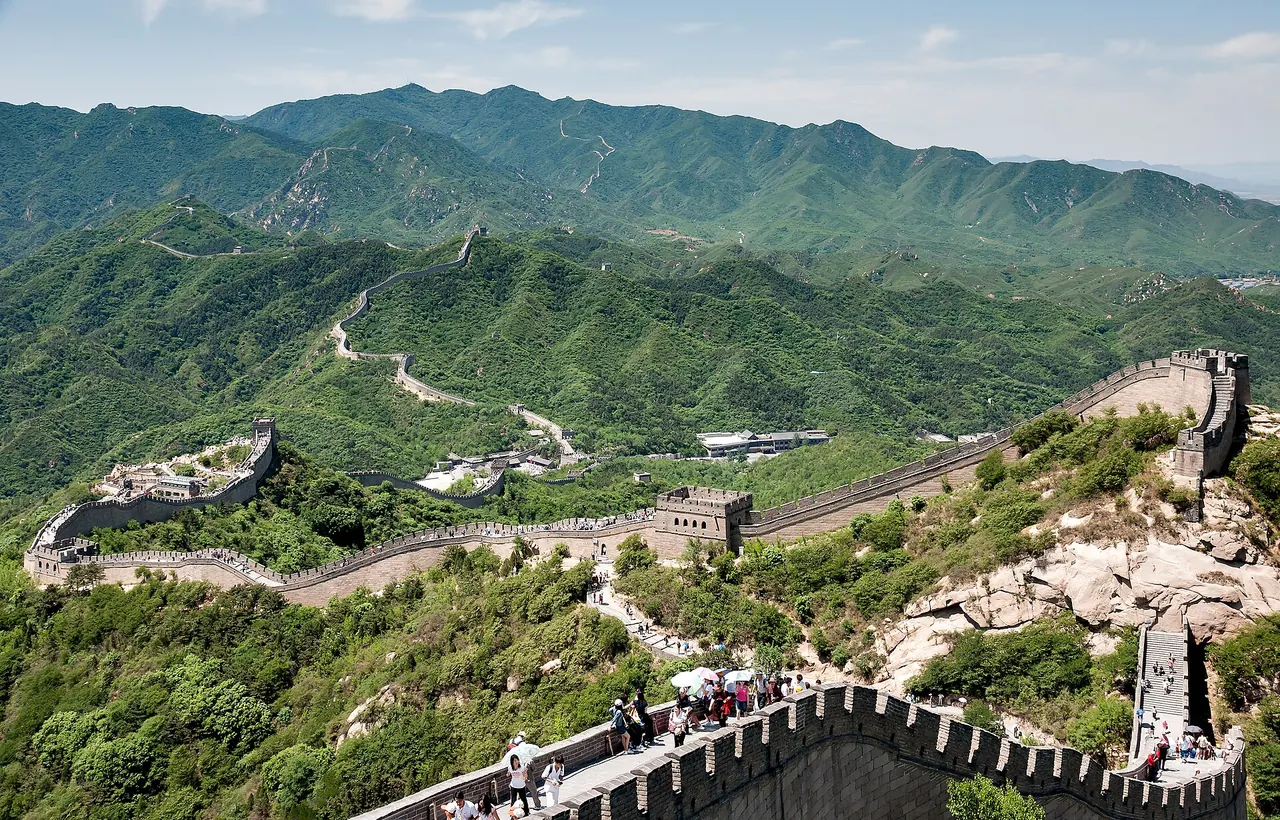
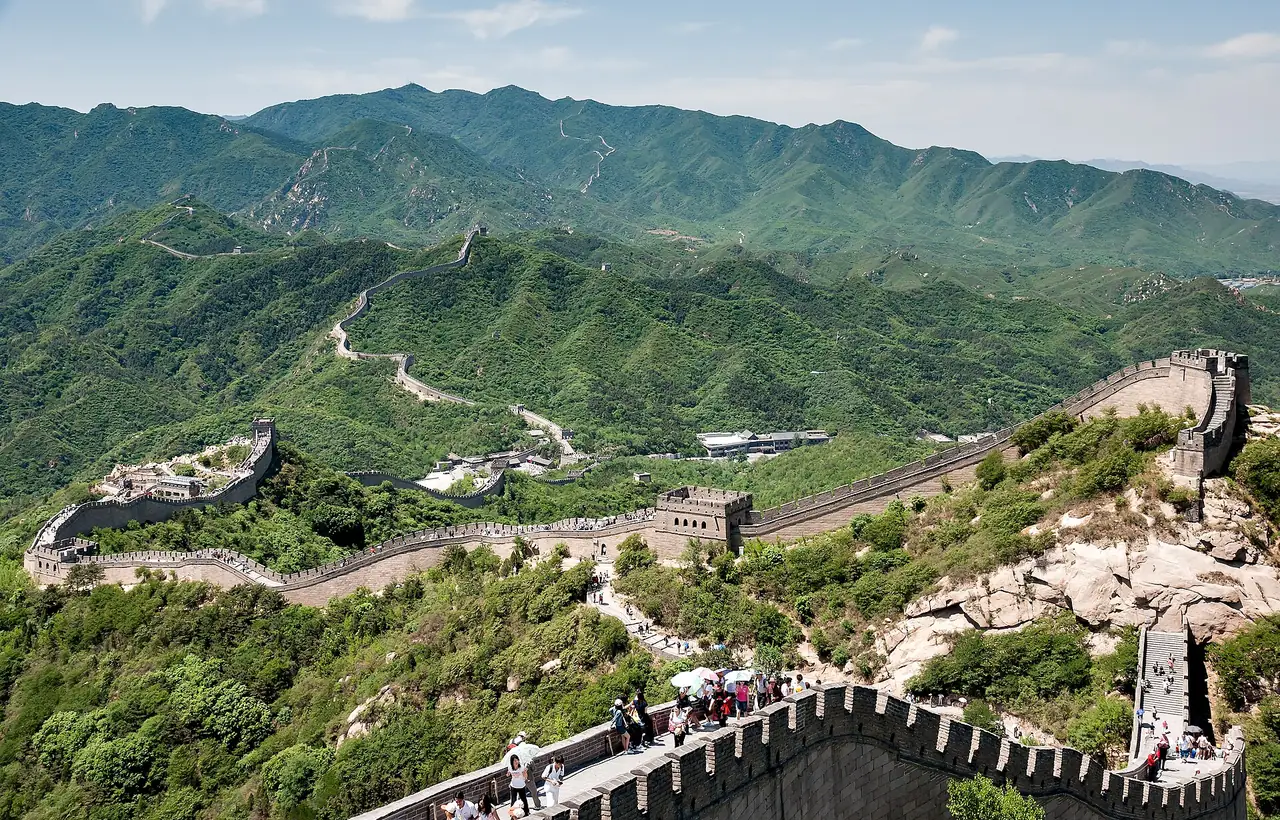
Fichas de países: la fotografía de cabecera de los 50 primeros, en la ficha (640 y 1280 px), con sus pruebas

diff --git a/e2e/ficha-pais.spec.ts b/e2e/ficha-pais.spec.ts
@@ -5,9 +5,9 @@ import { open, seed } from './helpers';
 /**
  * The sheet of a country, which the gallery of flags opens when the flag of a country is touched
  * (screens/FlagProfile.tsx). Every country with a flag has one: with what the game knows of it and what
- * Wikidata and Wikipedia say of it and of its flag, and with how Wikipedia begins to tell of both; and, where
- * somebody has written of it (for now, of Brazil alone), with its texts, its times and its photographs
- * instead. One sheet leads to another.
+ * Wikidata and Wikipedia say of it and of its flag, with how Wikipedia begins to tell of both and, where
+ * one has been chosen for it, with a photograph at its head; and, where somebody has written of it (for now,
+ * of Brazil alone), with its texts, its times and its photographs instead. One sheet leads to another.
  */
 
 interface Photo {
@@ -36,10 +36,13 @@ const FLAGS = JSON.parse(fs.readFileSync('public/data/flags.json', 'utf8')) as {
 };
 /** What a sheet nobody has written of tells in words: how Wikipedia begins to tell of the country and of its flag, by language. */
 type Lead = { es?: string[]; en?: string[] };
-const sheetFile = (id: string) => JSON.parse(fs.readFileSync(`public/data/profiles/${id}.json`, 'utf8')) as { lead?: Lead; flag?: { lead?: Lead }; read?: { es?: string; en?: string }; readFlag?: { es?: string; en?: string } };
+const sheetFile = (id: string) =>
+  JSON.parse(fs.readFileSync(`public/data/profiles/${id}.json`, 'utf8')) as { lead?: Lead; flag?: { lead?: Lead }; read?: { es?: string; en?: string }; readFlag?: { es?: string; en?: string }; photos?: (Photo & { focus?: [number, number] })[] };
 /** The countries as the game has them: what each is called, and how its finest divisions are. */
 const COUNTRIES = (JSON.parse(fs.readFileSync('public/data/index.json', 'utf8')) as { countries: { id: string; n: { es: string; en?: string }; fl?: string; lv: { k: string; n: number }[] }[] }).countries;
 const commons = (title: string): string => `https://commons.wikimedia.org/wiki/File:${encodeURIComponent(title.replace(/ /g, '_'))}`;
+/** A country for whose sheet no photograph has been chosen yet: the first there is, as long as there is one. */
+const BARE = COUNTRIES.find((c) => c.fl && c.id !== 'AQ' && fs.existsSync(`public/data/profiles/${c.id}.json`) && !sheetFile(c.id).photos)!;
 
 /** Whether an image has arrived and is a picture. */
 const drawn = (img: Locator): Promise<boolean> => img.evaluate((el) => (el as HTMLImageElement).complete && (el as HTMLImageElement).naturalWidth > 0);
@@ -504,7 +507,7 @@ test.describe('the sheet of a country nobody has written of yet', () => {
   const fact = (sheet: Locator, name: string): Locator => sheet.locator('.fp-facts > div').filter({ has: sheet.page().locator('dt', { hasText: new RegExp(`^${name}$`) }) }).locator('dd');
   const title = (sheet: Locator): Locator => sheet.getByRole('heading', { level: 2 });
 
-  test('opens from its flag, with what Wikidata and Wikipedia say of it and a band of its flag where a photograph will be', async ({ page }) => {
+  test('opens from its flag, with what Wikidata and Wikipedia say of it and the photograph chosen for it, or a band of its flag where one will be', async ({ page }) => {
     await seed(page);
     await open(page, '/banderas/paises');
     await page.locator('.fg-tile').filter({ hasText: /^España$/ }).click();
@@ -519,16 +522,28 @@ test.describe('the sheet of a country nobody has written of yet', () => {
     await expect(sheet.locator('.fp-local')).toHaveCount(0);
     await expect(sheet.locator('.fp-flag')).toHaveAttribute('alt', 'Bandera de España');
 
-    // No photograph yet: where it will be, the colours of its flag, and the flag standing over their foot.
-    await expect(sheet.locator('.fp-hero')).toHaveCount(0);
-    const band = sheet.locator('.fp-band');
-    await expect(band).toHaveAttribute('aria-hidden', 'true');
-    await expect(band.locator('img')).toHaveAttribute('src', /flags\/es\.svg#svgView\(preserveAspectRatio\(none\)\)$/);
-    await expect.poll(() => drawn(band.locator('img'))).toBe(true);
-    const [strip, flag, box] = [(await band.boundingBox())!, (await sheet.locator('.fp-flag').boundingBox())!, (await sheet.locator('.dlg-box').boundingBox())!];
-    expect(Math.round(strip.width)).toBe(Math.round(box.width));
-    expect(flag.y).toBeLessThan(strip.y + strip.height);
-    expect(flag.y + flag.height).toBeGreaterThan(strip.y + strip.height);
+    // At its head, the photograph that was chosen for it: as wide as the sheet, twice as wide as tall, with what is seen in it and whose it is.
+    const head = sheetFile('ES').photos![0];
+    expect(sheetFile('ES').photos).toHaveLength(1);
+    await expect(sheet.locator('.fp-band')).toHaveCount(0);
+    const hero = sheet.locator('.fp-hero img');
+    expect(head.sizes).toEqual([640, 1280]);
+    await expect.poll(() => drawn(hero)).toBe(true);
+    // Asked for at once, from the site itself, at one of the widths it is kept at.
+    expect(await hero.getAttribute('loading')).toBeNull();
+    expect(await hero.evaluate((el) => (el as HTMLImageElement).currentSrc)).toMatch(new RegExp(`/photos/${head.file}-(640|1280)\\.webp$`));
+    const [picture, flag, box] = [(await hero.boundingBox())!, (await sheet.locator('.fp-flag').boundingBox())!, (await sheet.locator('.dlg-box').boundingBox())!];
+    expect(Math.round(picture.width)).toBe(Math.round(box.width));
+    expect(picture.width / picture.height).toBeGreaterThan(1.9);
+    expect(flag.y).toBeLessThan(picture.y + picture.height);
+    expect(flag.y + flag.height).toBeGreaterThan(picture.y + picture.height);
+    const caption = sheet.locator('.fp-hero figcaption');
+    await expect(caption).toContainText('La Alhambra de Granada');
+    await expect(caption).toContainText(head.es);
+    await expect(caption.locator('.fp-credit')).toContainText(`${head.by} · ${head.licence} · Wikimedia Commons`);
+    await expect(caption.locator('.fp-credit a').first()).toHaveAttribute('href', head.licenceUrl!);
+    await expect(caption.locator('.fp-credit a').first()).toHaveAttribute('rel', /license/);
+    await expect(caption.locator('.fp-credit a').last()).toHaveAttribute('href', commons(head.title));
 
     // Nothing is said that nobody wrote: no parts of the flag, no times, no photographs, and no text but Wikipedia's.
     await expect(sheet.getByRole('heading', { level: 3 })).toHaveText(['De un vistazo', 'La bandera', 'Sus banderas en el tiempo', 'Las banderas de España']);
@@ -552,12 +567,13 @@ test.describe('the sheet of a country nobody has written of yet', () => {
     await expect(more).toHaveAttribute('href', 'https://es.wikipedia.org/wiki/Bandera_de_Espa%C3%B1a');
     await expect(more).toHaveAttribute('target', '_blank');
 
-    // Under it all, whose each thing is: nothing of photographs that are not there, nor of a text written for the game.
+    // Under it all, whose each thing is: its one photograph, and nothing of a text written for the game.
     const foot = sheet.locator('.fp-foot');
     await expect(foot).toContainText('The World Factbook');
     await expect(foot).toContainText('El nombre oficial, el lema, el himno y los datos de la bandera son los que dan Wikidata y Wikipedia.');
     await expect(foot).toContainText('El dibujo de la bandera es de la colección flag-icons.');
     await expect(foot).toContainText('El texto es el comienzo de los artículos de Wikipedia, abreviado, con licencia CC BY-SA 4.0.');
+    await expect(foot).toContainText('La fotografía es de Wikimedia Commons, reducida de tamaño; bajo ella van su autor y su licencia.');
     await expect(foot).not.toContainText(/fotografías|escrito para el juego/);
     await expect(foot.getByRole('link', { name: 'Leer más sobre España en Wikipedia' })).toHaveAttribute('href', 'https://es.wikipedia.org/wiki/Espa%C3%B1a');
     const report = (await foot.getByRole('link', { name: 'Avisar de un error en esta ficha' }).getAttribute('href'))!;
@@ -941,27 +957,55 @@ test.describe('the sheet of a country nobody has written of yet', () => {
     await expect(sheet.locator('.fp-glance .fp-owner a')).toHaveText('Noruega');
     await expect(sheet.locator('.fp-flag-facts .fp-owner a')).toHaveText('Noruega');
     await expect(sheet.locator('.fp-nb')).toHaveCount(0);
+    // One for which no photograph has been chosen yet: where it will be, the colours of its flag, and the flag standing over their foot.
+    await open(page, `/banderas/paises/${BARE.id}`);
+    await expect(title(sheet)).toHaveText(BARE.n.es);
+    await expect(sheet.locator('.fp-hero')).toHaveCount(0);
+    const band = sheet.locator('.fp-band');
+    await expect(band).toHaveAttribute('aria-hidden', 'true');
+    await expect(band.locator('img')).toHaveAttribute('src', new RegExp(`flags/${BARE.fl}\\.svg#svgView\\(preserveAspectRatio\\(none\\)\\)$`));
+    await expect.poll(() => drawn(band.locator('img'))).toBe(true);
+    const [strip, over, wide] = [(await band.boundingBox())!, (await sheet.locator('.fp-flag').boundingBox())!, (await sheet.locator('.dlg-box').boundingBox())!];
+    expect(Math.round(strip.width)).toBe(Math.round(wide.width));
+    expect(over.y).toBeLessThan(strip.y + strip.height);
+    expect(over.y + over.height).toBeGreaterThan(strip.y + strip.height);
+    await expect(sheet.locator('.fp-foot')).not.toContainText(/fotografía/);
+
     // And one with no flag that is official says so.
     await open(page, '/banderas/paises/AQ');
     await expect(sheet.locator('.fp-flag-facts dt')).toHaveText(['Colores', 'Diseño de']);
     await expect(sheet.locator('.fp-flag-facts dd').last()).toContainText('la Antártida no tiene bandera oficial');
   });
 
-  test('fills a phone with nothing wider than the screen, the band of its flag from side to side @movil', async ({ page }) => {
+  test('fills a phone with nothing wider than the screen, its photograph or the band of its flag from side to side @movil', async ({ page }) => {
     await seed(page);
-    await open(page, '/banderas/paises');
-    await page.locator('.fg-tile').filter({ hasText: /^España$/ }).click();
-    const sheet = sheetOf(page);
-    await expect(sheet.locator('article.fp')).toBeVisible();
+    // One with no photograph yet: the band is as wide as the screen, and the flag stands over its foot.
+    const sheet = await openSheet(page, `/banderas/paises/${BARE.id}`);
     const screen = page.viewportSize()!;
-    const box = (await sheet.boundingBox())!;
-    expect([Math.round(box.x), Math.round(box.width)]).toEqual([0, screen.width]);
-    // The band is as wide as the screen, and the flag stands over its foot.
     const band = (await sheet.locator('.fp-band').boundingBox())!;
     expect([Math.round(band.x), Math.round(band.width)]).toEqual([0, screen.width]);
+    const over = (await sheet.locator('.fp-flag').boundingBox())!;
+    expect(over.y).toBeLessThan(band.y + band.height);
+    expect(over.y + over.height).toBeGreaterThan(band.y + band.height);
+    await sheet.getByRole('button', { name: 'Cerrar' }).click();
+    await expect(sheet).toHaveCount(0);
+
+    await open(page, '/banderas/paises');
+    await page.locator('.fg-tile').filter({ hasText: /^España$/ }).click();
+    await expect(sheet.locator('article.fp')).toBeVisible();
+    const box = (await sheet.boundingBox())!;
+    expect([Math.round(box.x), Math.round(box.width)]).toEqual([0, screen.width]);
+    // Its photograph is as wide as the screen and taller than on a wide one, and the flag stands over its foot.
+    const hero = sheet.locator('.fp-hero img');
+    await expect.poll(() => drawn(hero)).toBe(true);
+    const picture = (await hero.boundingBox())!;
+    expect([Math.round(picture.x), Math.round(picture.width)]).toEqual([0, screen.width]);
+    expect(Math.round((picture.width / picture.height) * 10)).toBe(15);
+    // On a screen this narrow, the lightest picture is the one that is asked for... or the next: never more than fills it.
+    expect(await hero.evaluate((img: HTMLImageElement) => img.currentSrc)).toMatch(/-(640|1280)\.webp$/);
     const flag = (await sheet.locator('.fp-flag').boundingBox())!;
-    expect(flag.y).toBeLessThan(band.y + band.height);
-    expect(flag.y + flag.height).toBeGreaterThan(band.y + band.height);
+    expect(flag.y).toBeLessThan(picture.y + picture.height);
+    expect(flag.y + flag.height).toBeGreaterThan(picture.y + picture.height);
     // Nothing of the sheet is wider than it.
     const scroller = sheet.locator('.dlg-box');
     expect(await scroller.evaluate((el) => el.scrollWidth - el.clientWidth)).toBeLessThanOrEqual(0);

diff --git a/src/lib/profiles.test.ts b/src/lib/profiles.test.ts
@@ -22,7 +22,7 @@ import { locator } from './profileMap';
 import { bordersText, flownCards, hasProfile, isDay, neighboursOf, photoSet, photoSrc, profileIn, profileRest, rankOf, regionsText, timeCards, townsText, yearOfDay, type ProfileFile, type ProfilePhoto, type ProfileTime } from './profiles';
 import type { Country, Geo, Index } from './types';
 
-const WIDTHS = WIDTHS_SAID as { head: number[]; photo: number[]; time: number[] };
+const WIDTHS = WIDTHS_SAID as { head: number[]; photo: number[]; time: number[]; chosen: number[] };
 const LEAD_MAX = LEAD_MAX_SAID as { about: number; flag: number };
 const PHOTOS = PINNED as [file: string, blob: string][];
 const PHOTOS_SAID = PINNED_SAID as [file: string, blob: string];
@@ -327,9 +327,72 @@ describe('the sheet of every country', () => {
       expect(sheet.id).toBe(LANDS[i]);
       for (const key of Object.keys(sheet)) expect(known, `${sheet.id}.${key}`).toContain(key);
       for (const key of Object.keys(sheet.flag ?? {})) expect(ofFlag, `${sheet.id}.flag.${key}`).toContain(key);
-      // Only what somebody wrote by hand has texts, times and photographs.
-      if (!WRITTEN.includes(sheet.id)) for (const key of ['about', 'times', 'photos'] as const) expect(sheet[key], `${sheet.id}.${key}`).toBeUndefined();
+      // Only what somebody wrote by hand has texts and times; and of photographs, the others have at most the one chosen for their head.
+      if (!WRITTEN.includes(sheet.id)) {
+        for (const key of ['about', 'times'] as const) expect(sheet[key], `${sheet.id}.${key}`).toBeUndefined();
+        expect(sheet.photos?.length ?? 0, `${sheet.id}.photos`).toBeLessThanOrEqual(1);
+      }
     }
+  });
+
+  it('has at its head the photograph that was chosen for it, as it was chosen, light enough and with whose it is', () => {
+    const { _: note, ...chosen } = JSON.parse(fs.readFileSync(path.join(ROOT, 'scripts/data/profiles-heads.json'), 'utf8')) as Record<string, { file: string; es: string; en: string; by?: string; focus?: [number, number] }> & { _: string };
+    expect(typeof note).toBe('string');
+    const ids = Object.keys(chosen);
+    // The file is written by hand, one country to a line and in order; and every country it names is one of the game.
+    expect(ids).toEqual([...ids].sort());
+    for (const id of ids) expect(LANDS, id).toContain(id);
+    // The first lot: the countries where Spanish is spoken, and the most populous of the rest.
+    expect(ids.length).toBeGreaterThanOrEqual(50);
+    for (const id of ['ES', 'MX', 'AR', 'CO', 'PE', 'CL', 'US', 'CN', 'IN', 'JP', 'DE', 'FR', 'GB', 'IT']) expect(ids, id).toContain(id);
+    const seen = new Set<string>();
+    for (const sheet of sheets) {
+      if (WRITTEN.includes(sheet.id)) continue;
+      const head = chosen[sheet.id];
+      if (!head) {
+        expect(sheet.photos, sheet.id).toBeUndefined();
+        continue;
+      }
+      expect(sheet.photos, sheet.id).toHaveLength(1);
+      const photo = sheet.photos![0];
+      expect(photo.title, sheet.id).toBe(head.file);
+      expect([photo.es, photo.en], sheet.id).toEqual([head.es, head.en]);
+      for (const text of [photo.es, photo.en]) {
+        expect(text.length, `${sheet.id}: ${text}`).toBeGreaterThan(3);
+        expect(text.length, `${sheet.id}: ${text}`).toBeLessThanOrEqual(100);
+        // What is seen, said as a name is: no full stop.
+        expect(text, sheet.id).toMatch(/^\p{Lu}.*[^.]$/u);
+      }
+      expect(photo.focus, sheet.id).toEqual(head.focus);
+      // Each country its own: no photograph is at the head of two sheets.
+      expect(seen.has(photo.file), `${sheet.id}: ${photo.title}`).toBe(false);
+      seen.add(photo.file);
+      expect(photo.file, photo.title).toMatch(/^[0-9a-f]{10}$/);
+      expect(photo.title).toMatch(/\.jpe?g$/i);
+      // Twice as wide as tall is how it is shown on a wide screen: one much taller or much wider than that loses most of itself.
+      expect(photo.w / photo.h, photo.title).toBeGreaterThanOrEqual(1.25);
+      expect(photo.w / photo.h, photo.title).toBeLessThanOrEqual(2.4);
+      expect(photo.sizes, photo.title).toEqual(WIDTHS.chosen.filter((w) => w <= photo.w));
+      expect(photo.sizes.at(-1), photo.title).toBe(1280);
+      for (const w of photo.sizes) {
+        const file = path.join(ROOT, PICTURES, `${photo.file}-${w}.webp`);
+        expect(fs.existsSync(file), file).toBe(true);
+        const bytes = fs.statSync(file).size;
+        expect(bytes, `${photo.title} ${w}`).toBeGreaterThan(2_000);
+        expect(bytes, `${photo.title} ${w}`).toBeLessThan(300_000);
+        expect(fs.readFileSync(file).subarray(8, 12).toString('latin1')).toBe('WEBP');
+      }
+      // Free to show and to make smaller, and said as its licence asks.
+      expect(photo.licence, photo.title).toMatch(/^(CC0|CC BY(-SA)? \d\.\d|Public domain)/);
+      if (photo.licence.startsWith('CC')) expect(photo.licenceUrl, photo.title).toMatch(/^https:\/\/creativecommons\.org\//);
+      if (/^CC BY/.test(photo.licence)) expect(photo.by?.trim(), photo.title).toBeTruthy();
+      // A name, not all that the page of the file tells of how it was made.
+      if (photo.by) {
+        expect(photo.by.length, photo.by).toBeLessThanOrEqual(60);
+        expect(photo.by, photo.title).not.toMatch(/\(\s|\s\)|\s,|\.jpe?g|talk|more photos/i);
+      }
+    }
+    expect(seen.size).toBe(ids.filter((id) => !WRITTEN.includes(id)).length);
   });
 
   it('names the country in full, and says its motto and its anthem, in words that read clean', () => {
